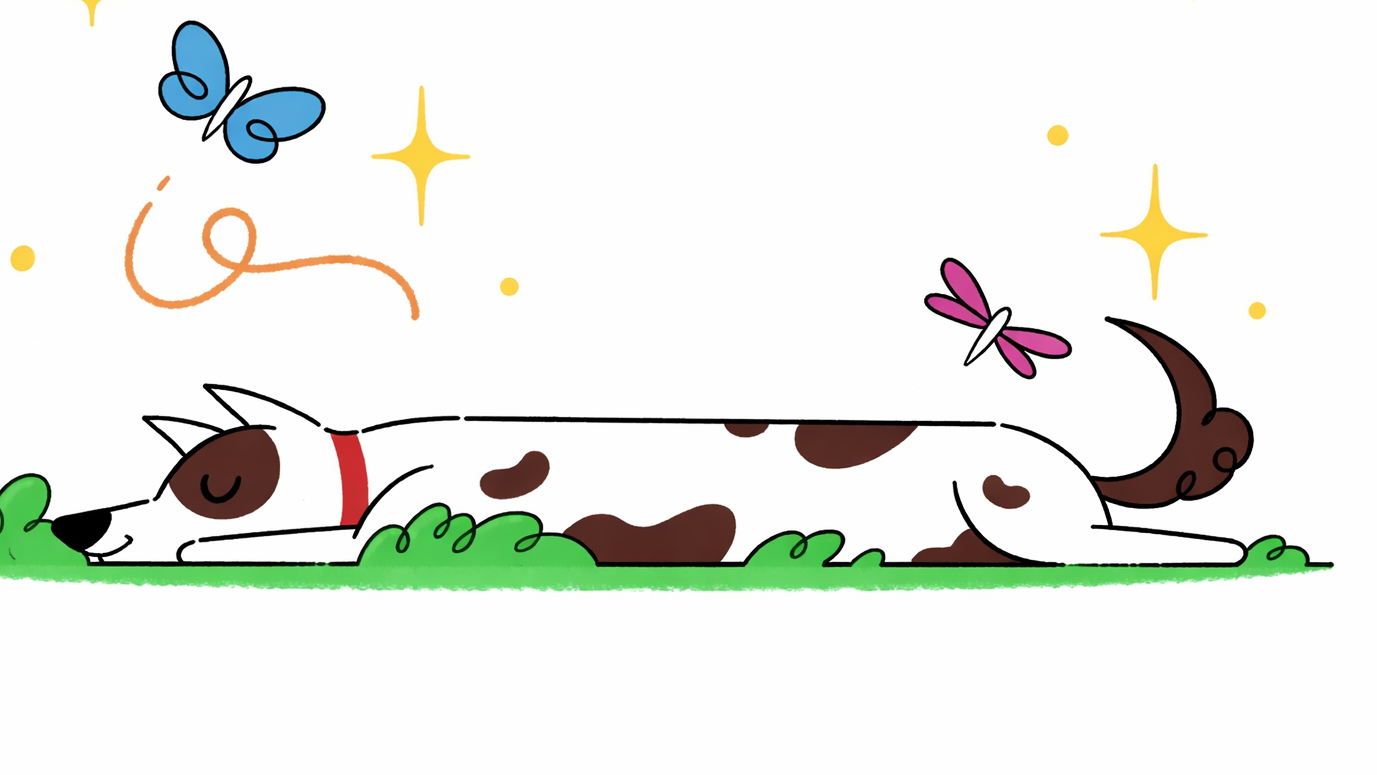
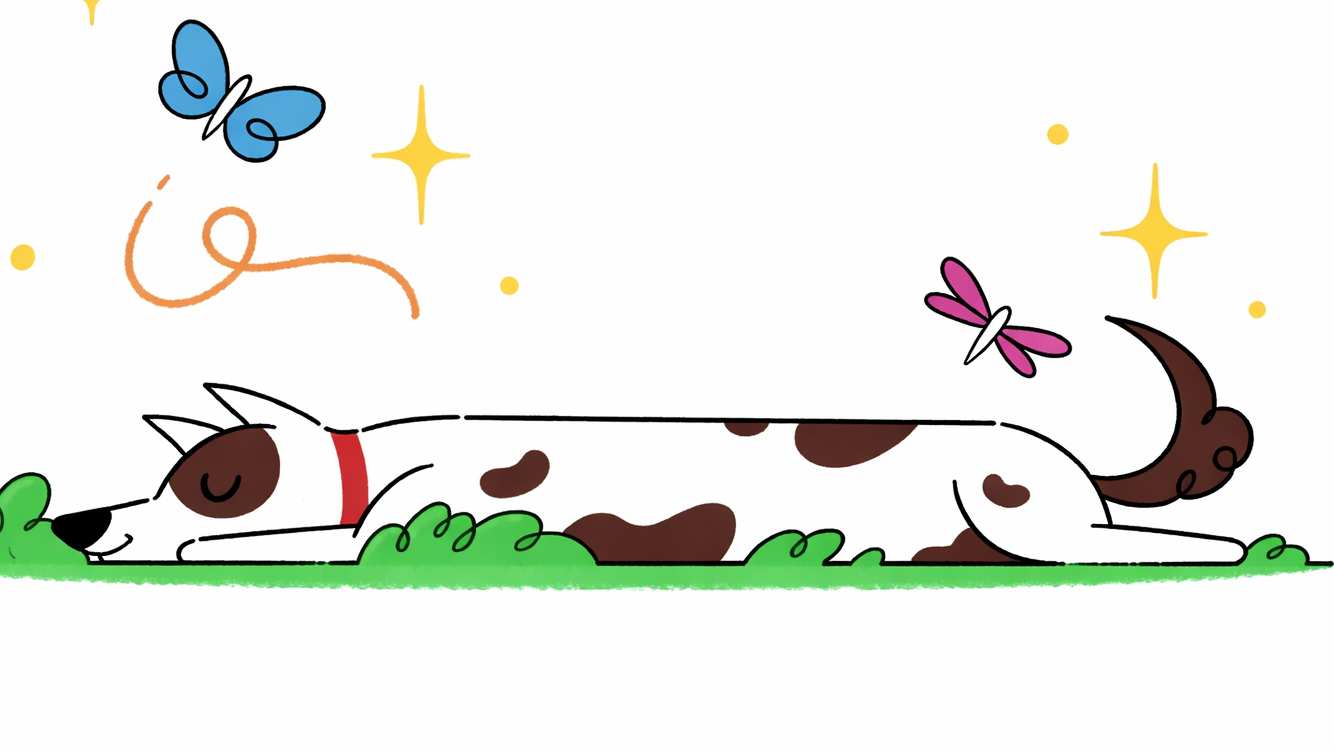
fix: correct styling bugs

diff --git a/style.css b/style.css
@@ -100,12 +100,12 @@
     }
 
     .main-img {
-        height: auto;
-        min-height: 110vh;
         background-image: url("img1\ \(Edited\).png");
-        background-size: cover;
+        background-size: contain;
+        aspect-ratio: 16/9;
+        background-position: center top;
         background-repeat: no-repeat;
-        padding-top: 50px;
+        margin-top: 50px;
         text-align: center;
     }
 
@@ -127,11 +127,11 @@
     .p1 {
         height: auto;
         min-height: 20vh;
-        width: 99.9%;
+        width: 100%;
         color: #274657;
         text-align: center;
         font-size: 4.3rem;
-        padding-top: 15vh;
+        padding-top: 10vh;
         display: flex;
         align-items: center;
     }
@@ -157,7 +157,7 @@
     .bg2 {
         height: auto;
         min-height: 70vh;
-        padding-top: 20vh;
+        padding-top: 10vh;
         display: flex;
         justify-content: center;
         gap: 30px;
@@ -169,11 +169,16 @@
         text-align: center;
         border: 2px solid black;
         border-radius: 5%;
+        display: flex;
+        flex-direction: column;
+        align-items: center;
+        justify-content: center;
     }
 
     .box1 img {
-        padding-top: 28px;
+        padding-top: 25px;
         height: 37vh;
+        width: 100%;
     }
 
     .box1 h2 {
@@ -185,6 +190,7 @@
 
     .box1 p {
         font-size: 1.2rem;
+        font-weight: 500;
         padding: 15px 5px 0 5px;
     }
 
@@ -194,10 +200,15 @@
         text-align: center;
         border: 2px solid black;
         border-radius: 5%;
+        display: flex;
+        flex-direction: column;
+        align-items: center;
+        justify-content: center;
     }
 
     .box2 img {
         height: 43vh;
+        width: 100%;
 
     }
 
@@ -219,10 +230,15 @@
         text-align: center;
         border: 2px solid black;
         border-radius: 5%;
+        display: flex;
+        flex-direction: column;
+        align-items: center;
+        justify-content: center;
     }
 
     .box3 img {
         height: 43vh;
+        width: 100%;
     }
 
     .box3 h2 {
@@ -233,21 +249,21 @@
 
     .box3 p {
         font-size: 1.2rem;
+        font-weight: 500;
         padding: 15px 5px 0 5px;
     }
 
     .bg3 {
-        height: auto;
-        min-height: 100vh;
+        aspect-ratio: 16/9;
         width: 100%;
         text-align: center;
         background-image: url("bg3\ \(Edited\).png");
         background-repeat: no-repeat;
-        background-size: cover;
+        background-size: contain;
     }
 
     .bg3 h2 {
-        padding-top: 120px;
+        padding-top: 15vh;
         font-size: 3rem;
         font-weight: 500;
         color: #274657;
@@ -514,7 +530,7 @@
     }
 
     .bg7-box1 {
-        height: 60vh;
+        height: auto;
         width: 25vw;
         line-height: 30px;
         border: 2px solid black;
@@ -536,7 +552,7 @@
     }
 
     .bg7-img1 img {
-        width: 250px;
+        width: 15vw;
     }
 
     .price {
@@ -558,7 +574,7 @@
         border: 1px solid black;
         font-weight: 500;
         font-size: 1rem;
-        width: 430px;
+        width: 25vw;
         height: 35px;
         border-radius: 20px;
     }
@@ -574,16 +590,8 @@
         font-size: 1.2rem;
     }
 
-    .bg7-box-1 {
-        height: 22vh;
-        padding: 10px 15px 15px 10px;
-        border: 1px solid black;
-        background-color: white;
-        border-radius: 20px;
-    }
-
     .bg7-box2 {
-        height: 60vh;
+        height: auto;
         width: 25vw;
         line-height: 30px;
         border: 2px solid black;
@@ -595,22 +603,23 @@
         display: flex;
         justify-content: center;
         align-items: center;
-        height: 130px;
+        height: 15vh;
+
     }
 
     .bg7-img2 img {
-        width: 250px;
+        width: 15vw;
     }
 
     .bg7-box-1 {
-        height: 22vh;
+        height: auto;
         padding: 10px 15px 15px 10px;
         border: 1px solid black;
         border-radius: 20px;
     }
 
     .bg7-box3 {
-        height: 60vh;
+        height: auto;
         width: 25vw;
         line-height: 30px;
         border: 2px solid black;
@@ -627,13 +636,6 @@
 
     .bg7-img3 img {
         width: 150px;
-    }
-
-    .bg7-box-1 {
-        height: 22vh;
-        padding: 10px 15px 15px 10px;
-        border: 1px solid black;
-        border-radius: 20px;
     }
 
     .bg8 {
@@ -857,14 +859,10 @@
 
     /* For Laptop(1024 px) */
     @media only screen and (max-width: 1024px) {
-
         body {
             height: 100%;
             width: 100%;
-        }
-
-        nav {
-            overflow: hidden;
+            box-sizing: border-box;
         }
 
         .left-nav {
@@ -953,11 +951,10 @@
         }
 
         .bg3 {
-            height: auto;
-            min-height: 60vh;
+            aspect-ratio: 16/9;
             width: 100%;
             background-repeat: no-repeat;
-            background-size: cover;
+            background-size: contain;
             background-position: center;
         }
 
@@ -1069,7 +1066,10 @@
             margin-top: 50px;
         }
 
-        .bg7 {}
+        .bg7 {
+            height: auto;
+            width: 100%;
+        }
 
         .bg7-p1 {
             font-size: 1.2rem;
@@ -1082,7 +1082,6 @@
         .bg7-boxes {
             gap: 8px;
         }
-
         .bg7-box1 {
             height: auto;
             width: 30vw;
@@ -1103,7 +1102,6 @@
 
         .bg7-box-1 {
             height: auto;
-            min-height: 35vh;
             line-height: 1.5rem;
             font-size: 1rem;
         }
